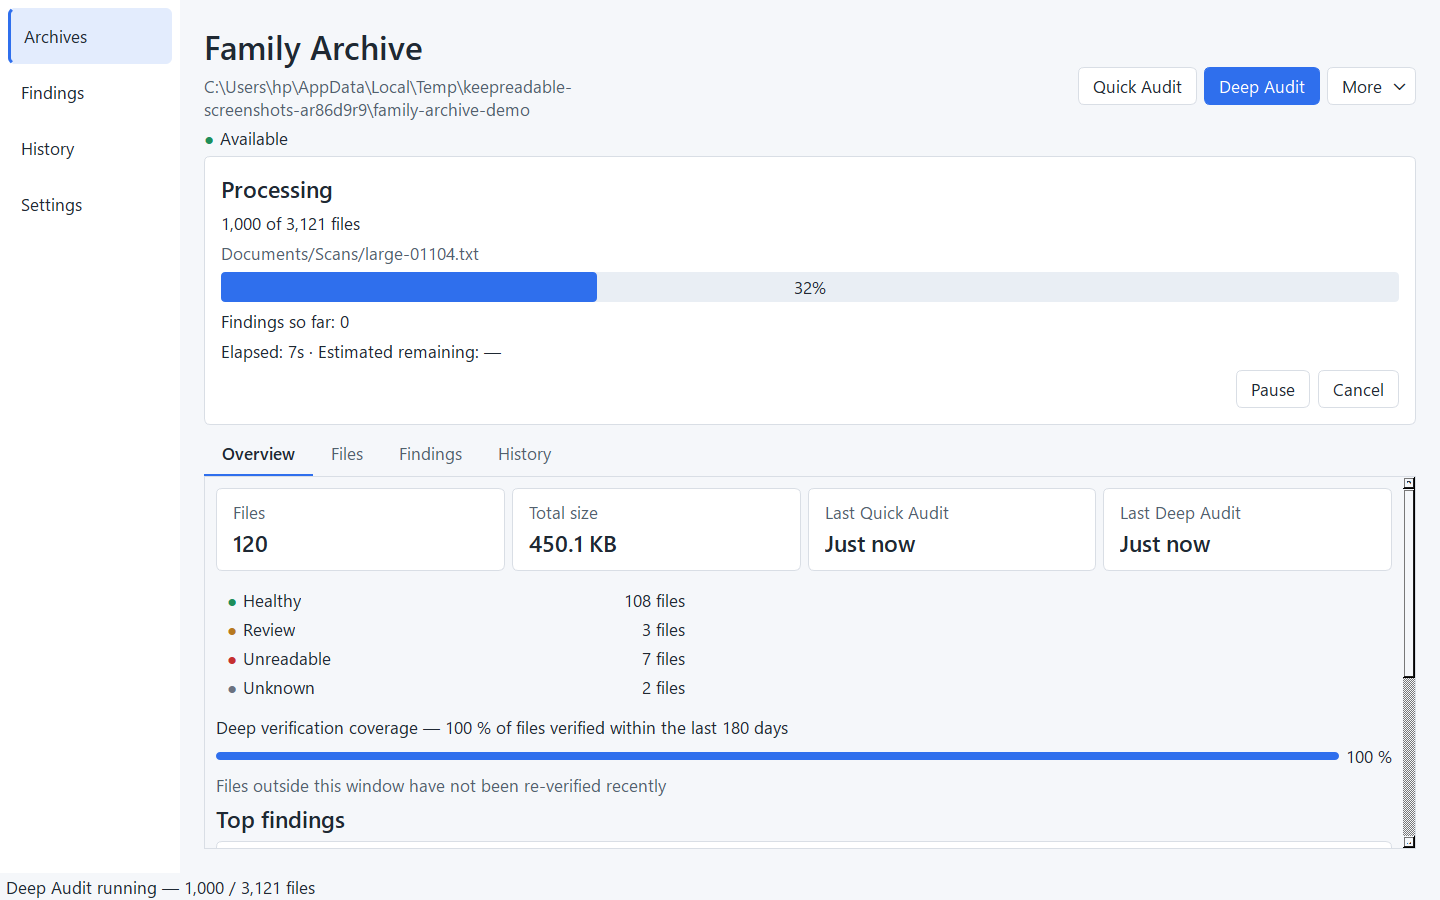
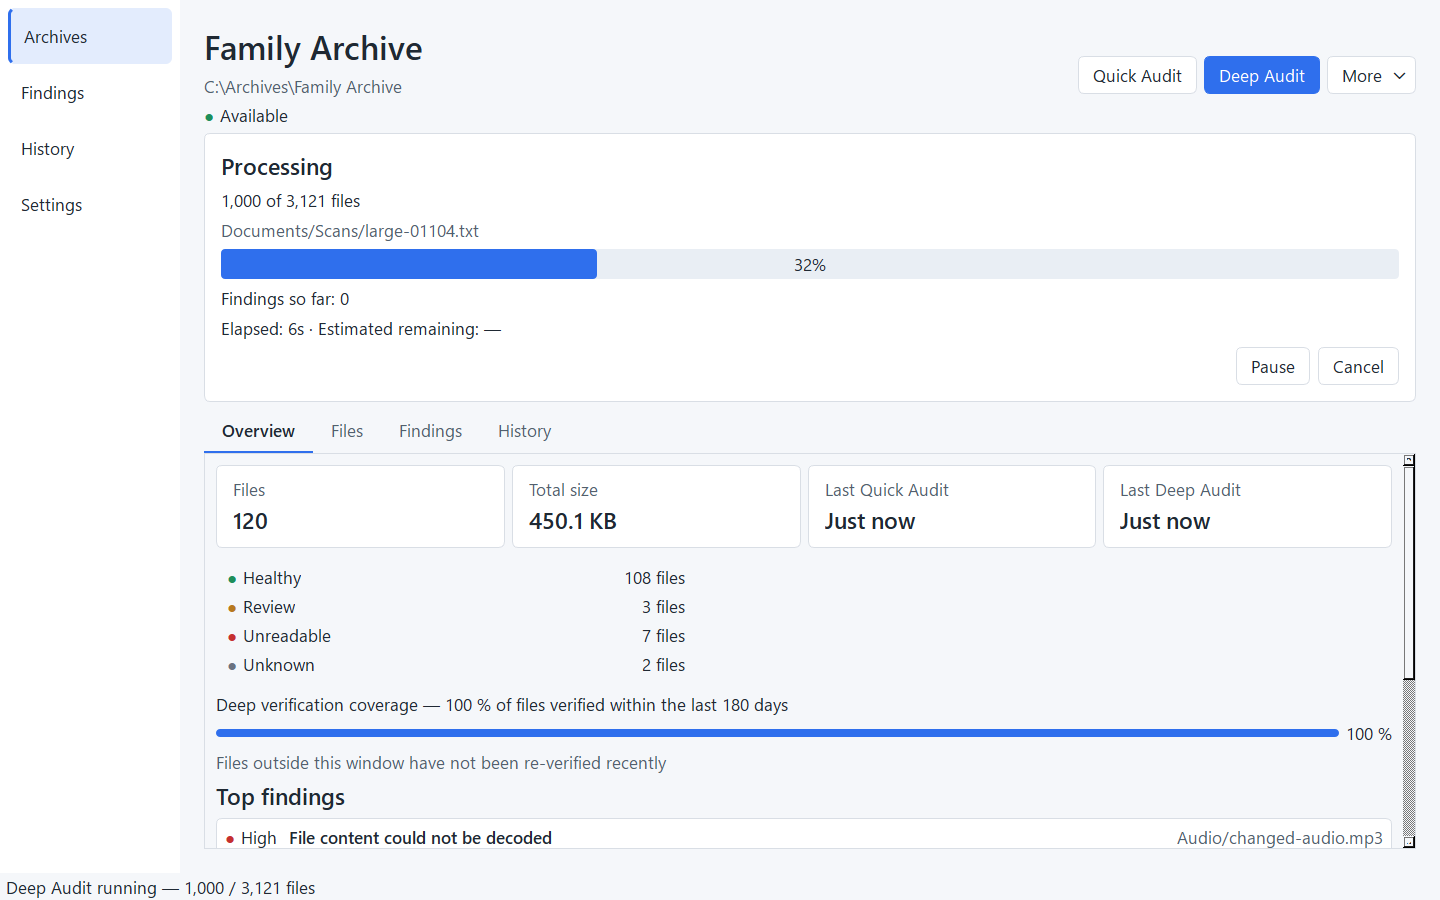
docs: recapture screenshots with neutral archive paths

diff --git a/scripts/capture_screenshots.py b/scripts/capture_screenshots.py
@@ -17,11 +17,12 @@ sys.path.insert(0, str(ROOT / "scripts"))
 from create_demo_archive import create_demo_archive  # noqa: E402
 from PIL import Image  # noqa: E402
 from PySide6.QtCore import QEventLoop, QPoint, QTimer  # noqa: E402
-from PySide6.QtWidgets import QApplication  # noqa: E402
+from PySide6.QtWidgets import QApplication, QLabel, QLineEdit  # noqa: E402
 
 from keepreadable.application.container import AppContext  # noqa: E402
 from keepreadable.domain.enums import AuditMode  # noqa: E402
 from keepreadable.domain.preservation import CopyOperation  # noqa: E402
+from keepreadable.integrations.tool_locator import ToolLocator, ToolName  # noqa: E402
 from keepreadable.ui.dialogs.add_archive_dialog import AddArchiveDialog  # noqa: E402
 from keepreadable.ui.dialogs.copy_dialog import CopyDialog  # noqa: E402
 from keepreadable.ui.dialogs.file_detail_dialog import FileDetailDialog  # noqa: E402
@@ -70,13 +71,41 @@ def assert_overview_findings_visible(
         raise RuntimeError("archive overview top-findings region appears blank")
 
 
-def capture(out: Path, data_dir: Path) -> list[Path]:
+def mirror_tools_for_capture(data_dir: Path) -> None:
+    locator = ToolLocator()
+    destinations = {
+        ToolName.SIEGFRIED: data_dir / "tools" / "siegfried" / "sf.exe",
+        ToolName.FFMPEG: data_dir / "tools" / "ffmpeg" / "ffmpeg.exe",
+        ToolName.FFPROBE: data_dir / "tools" / "ffmpeg" / "ffprobe.exe",
+    }
+    for name, destination in destinations.items():
+        source = locator.locate(name)
+        if source is not None:
+            destination.parent.mkdir(parents=True, exist_ok=True)
+            shutil.copy2(source, destination)
+    home = locator.siegfried_home()
+    if home is not None and (home / "default.sig").is_file():
+        destination = data_dir / "tools" / "siegfried" / "default.sig"
+        destination.parent.mkdir(parents=True, exist_ok=True)
+        shutil.copy2(home / "default.sig", destination)
+
+
+def capture(
+    out: Path,
+    data_dir: Path,
+    archive_root: Path | None = None,
+) -> list[Path]:
     out.mkdir(parents=True, exist_ok=True)
-    archive_root = data_dir.parent / "family-archive-demo"
+    explicit_archive_root = archive_root is not None
+    archive_root = archive_root or data_dir.parent / "family-archive-demo"
     if archive_root.exists():
+        if explicit_archive_root:
+            raise FileExistsError(f"Refusing to replace existing archive root: {archive_root}")
         shutil.rmtree(archive_root)
+    archive_root.parent.mkdir(parents=True, exist_ok=True)
     if data_dir.exists():
         shutil.rmtree(data_dir)
+    mirror_tools_for_capture(data_dir)
     create_demo_archive(archive_root, seed=42, media=None)
     context = AppContext.create(data_dir)
     archive = context.archive_service.add_archive("Family Archive", archive_root)
@@ -92,9 +121,15 @@ def capture(out: Path, data_dir: Path) -> list[Path]:
     pause(350)
     archive_screen = window.stack.currentWidget()
     assert isinstance(archive_screen, ArchiveScreen)
+    if archive_screen.path.text() != str(archive_root):
+        raise RuntimeError("archive header does not show the requested neutral root")
     saved: list[Path] = []
 
     def grab(name: str, widget: object = window) -> None:
+        visible_text = [label.text() for label in widget.findChildren(QLabel)]
+        visible_text.extend(field.text() for field in widget.findChildren(QLineEdit))
+        if str(Path.home()).casefold() in " ".join(visible_text).casefold():
+            raise RuntimeError(f"{name} contains the local user profile path")
         path = out / name
         save_widget(widget, path)
         saved.append(path)
@@ -115,6 +150,11 @@ def capture(out: Path, data_dir: Path) -> list[Path]:
     grab("history.png")
     window.sidebar.setCurrentRow(3)
     pause(150)
+    settings_text = " ".join(
+        label.text() for label in window.stack.currentWidget().findChildren(QLabel)
+    )
+    if str(Path.home()).casefold() in settings_text.casefold():
+        raise RuntimeError("settings screenshot contains the local user profile path")
     grab("settings.png")
     first = context.file_service.list_files(archive.id, 0, 1)[0]
     dialog = FileDetailDialog(context.file_service.file_detail(first.id or 0), window)
@@ -208,6 +248,7 @@ def main() -> int:
     parser = argparse.ArgumentParser()
     parser.add_argument("--out", type=Path, default=ROOT / "docs" / "screenshots")
     parser.add_argument("--data-dir", type=Path)
+    parser.add_argument("--archive-root", type=Path)
     args = parser.parse_args()
     temporary: tempfile.TemporaryDirectory[str] | None = None
     if args.data_dir is None:
@@ -218,11 +259,21 @@ def main() -> int:
     app = QApplication.instance() or QApplication(sys.argv)
     assert isinstance(app, QApplication)
     apply_theme(app)
-    saved = capture(args.out, data_dir)
-    for path in saved:
-        print(f"{path.name}\t{path.stat().st_size} bytes")
-    if temporary is not None:
-        temporary.cleanup()
+    owned_archive_root = args.archive_root is not None and not args.archive_root.exists()
+    try:
+        saved = capture(args.out, data_dir, args.archive_root)
+        for path in saved:
+            print(f"{path.name}\t{path.stat().st_size} bytes")
+    finally:
+        if owned_archive_root and args.archive_root is not None and args.archive_root.exists():
+            shutil.rmtree(args.archive_root)
+        if args.archive_root is not None and data_dir.exists():
+            shutil.rmtree(data_dir)
+        welcome_data = data_dir.parent / "welcome-data"
+        if args.archive_root is not None and welcome_data.exists():
+            shutil.rmtree(welcome_data)
+        if temporary is not None:
+            temporary.cleanup()
     return 0
 
 
